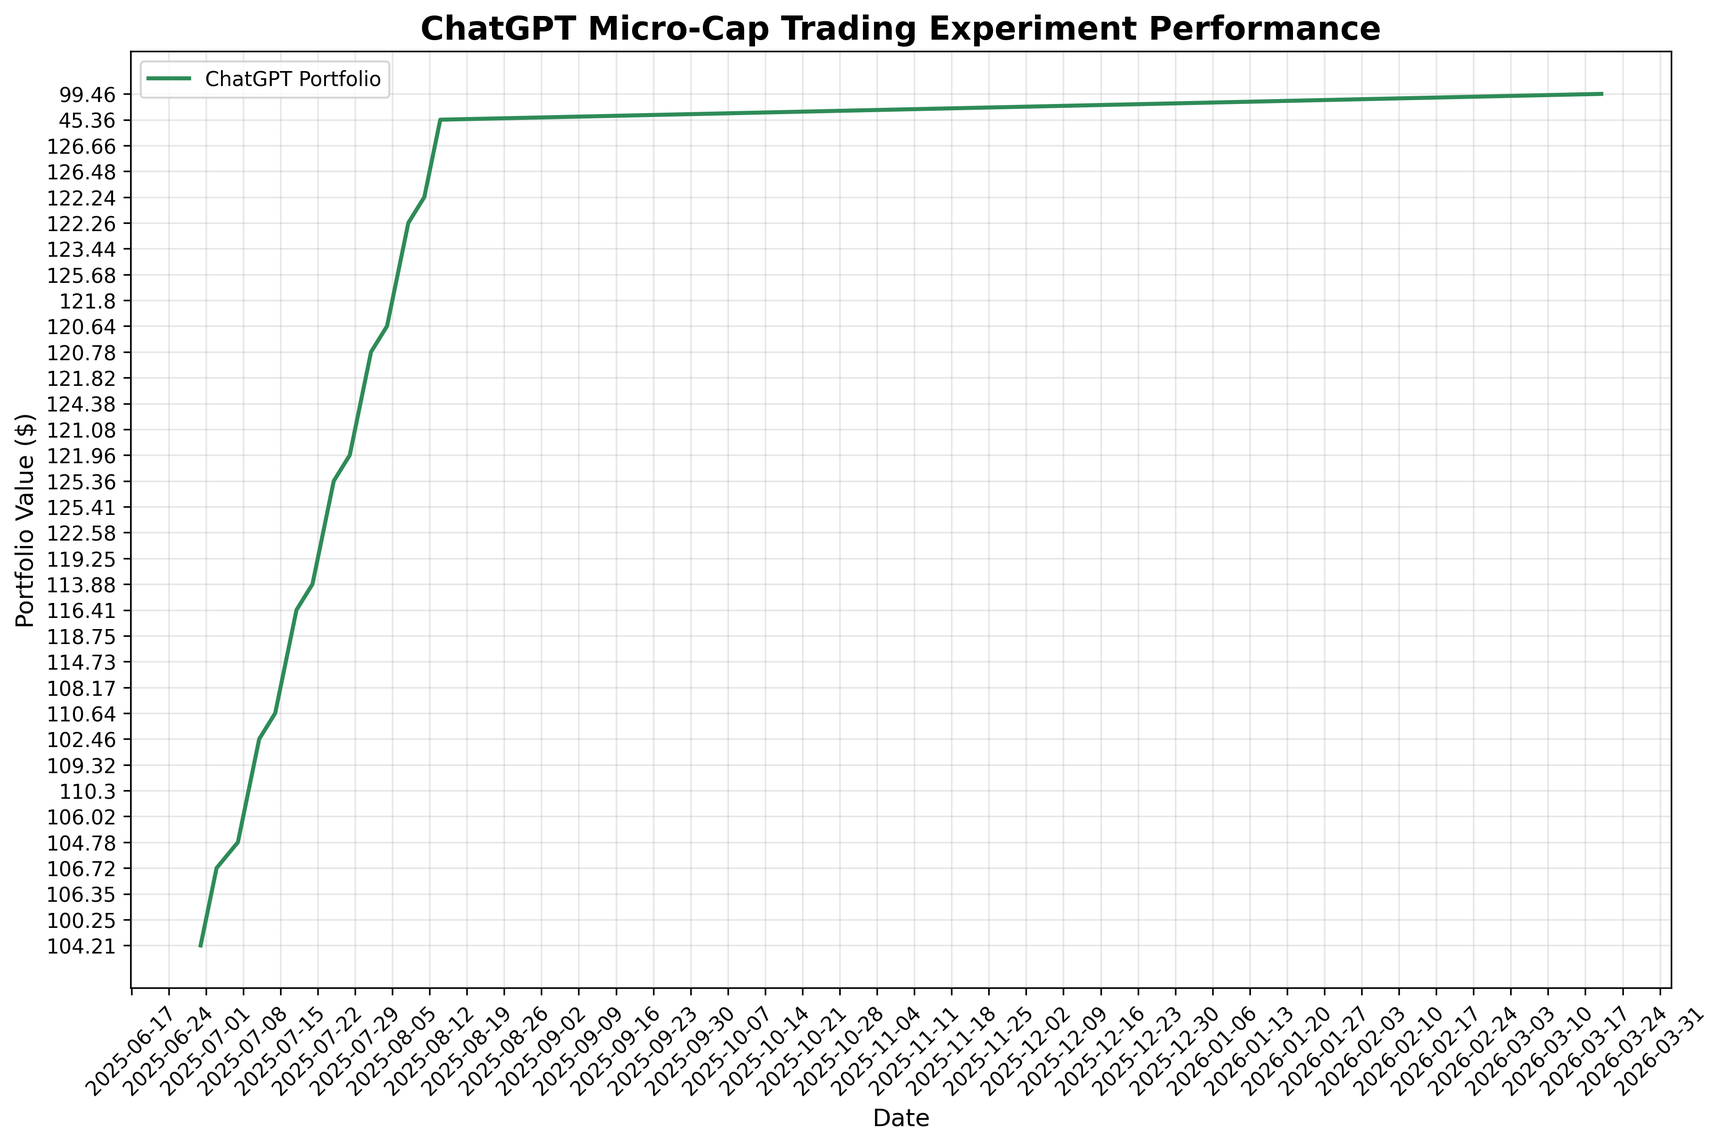
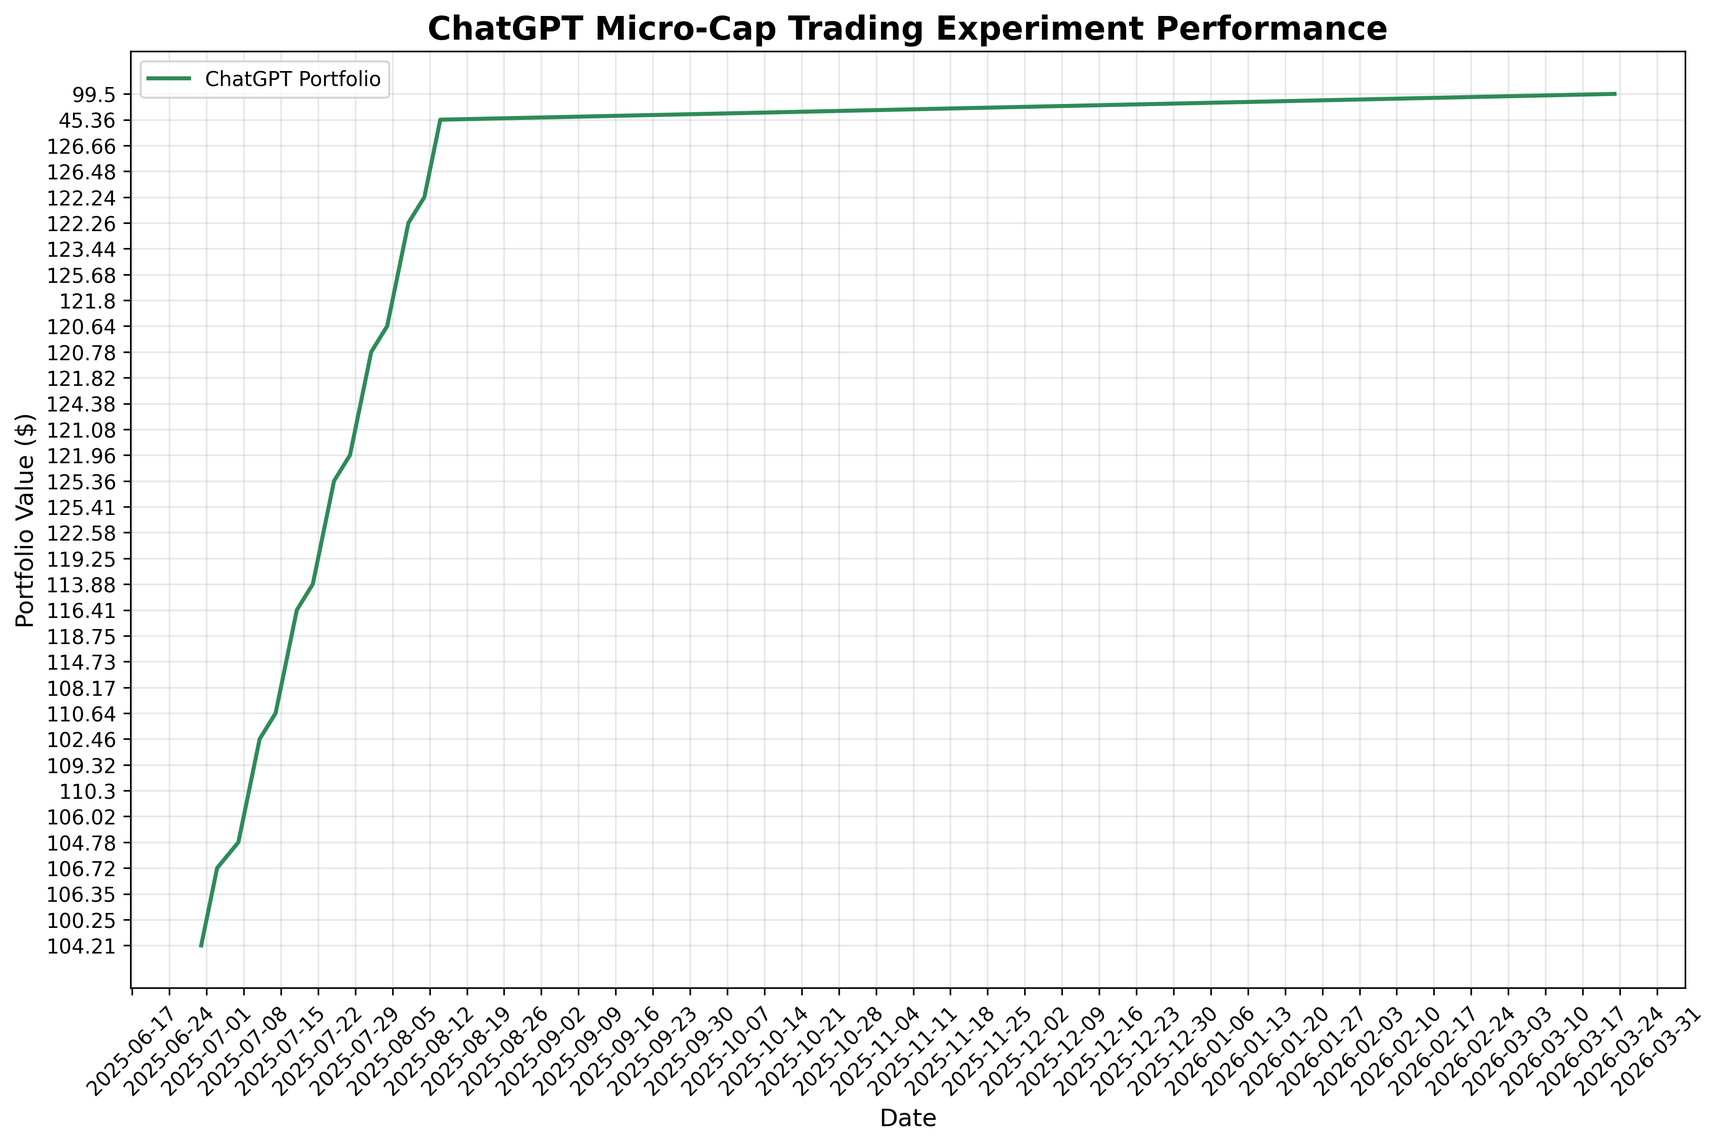
deploy: e15cad030d70fb3fbb51f9df6e22fa70c2f175c0

diff --git a/index.html b/index.html
@@ -105,7 +105,7 @@
                 <div class="stat-label">Total Trades</div>
             </div>
             <div class="stat-card">
-                <div class="stat-value" id="last-updated">2026-03-20</div>
+                <div class="stat-value" id="last-updated">2026-03-23</div>
                 <div class="stat-label">Last Updated</div>
             </div>
         </div>
@@ -160,8 +160,8 @@
     
     <script>
         // Portfolio data
-        const portfolioData = JSON.parse("[{&quot;Date&quot;: &quot;2025-08-11&quot;, &quot;Ticker&quot;: &quot;ABEO&quot;, &quot;Shares&quot;: 4.0, &quot;Buy Price&quot;: 5.77, &quot;Cost Basis&quot;: 23.08, &quot;Stop Loss&quot;: 4.9, &quot;Current Price&quot;: 6.28, &quot;Total Value&quot;: 25.12, &quot;PnL&quot;: 2.04, &quot;Action&quot;: &quot;HOLD&quot;, &quot;Cash Balance&quot;: NaN, &quot;Total Equity&quot;: NaN}, {&quot;Date&quot;: &quot;2025-08-11&quot;, &quot;Ticker&quot;: &quot;ACTU&quot;, &quot;Shares&quot;: 6.0, &quot;Buy Price&quot;: 5.75, &quot;Cost Basis&quot;: 34.5, &quot;Stop Loss&quot;: 4.89, &quot;Current Price&quot;: 8.01, &quot;Total Value&quot;: 48.06, &quot;PnL&quot;: 13.56, &quot;Action&quot;: &quot;HOLD&quot;, &quot;Cash Balance&quot;: NaN, &quot;Total Equity&quot;: NaN}, {&quot;Date&quot;: &quot;2025-08-11&quot;, &quot;Ticker&quot;: &quot;ESPR&quot;, &quot;Shares&quot;: 2.0, &quot;Buy Price&quot;: 1.91, &quot;Cost Basis&quot;: 3.82, &quot;Stop Loss&quot;: 1.6, &quot;Current Price&quot;: 1.85, &quot;Total Value&quot;: 3.7, &quot;PnL&quot;: -0.12, &quot;Action&quot;: &quot;HOLD&quot;, &quot;Cash Balance&quot;: NaN, &quot;Total Equity&quot;: NaN}, {&quot;Date&quot;: &quot;2025-08-11&quot;, &quot;Ticker&quot;: &quot;TOTAL&quot;, &quot;Shares&quot;: NaN, &quot;Buy Price&quot;: NaN, &quot;Cost Basis&quot;: NaN, &quot;Stop Loss&quot;: NaN, &quot;Current Price&quot;: NaN, &quot;Total Value&quot;: 76.88, &quot;PnL&quot;: 15.48, &quot;Action&quot;: NaN, &quot;Cash Balance&quot;: 45.36, &quot;Total Equity&quot;: &quot;122.24&quot;}, {&quot;Date&quot;: &quot;2025-08-12&quot;, &quot;Ticker&quot;: &quot;ABEO&quot;, &quot;Shares&quot;: 4.0, &quot;Buy Price&quot;: 5.77, &quot;Cost Basis&quot;: 23.08, &quot;Stop Loss&quot;: 4.9, &quot;Current Price&quot;: 6.38, &quot;Total Value&quot;: 25.52, &quot;PnL&quot;: 2.44, &quot;Action&quot;: &quot;HOLD&quot;, &quot;Cash Balance&quot;: NaN, &quot;Total Equity&quot;: NaN}, {&quot;Date&quot;: &quot;2025-08-12&quot;, &quot;Ticker&quot;: &quot;ACTU&quot;, &quot;Shares&quot;: 6.0, &quot;Buy Price&quot;: 5.75, &quot;Cost Basis&quot;: 34.5, &quot;Stop Loss&quot;: 4.89, &quot;Current Price&quot;: 8.67, &quot;Total Value&quot;: 52.02, &quot;PnL&quot;: 17.52, &quot;Action&quot;: &quot;HOLD&quot;, &quot;Cash Balance&quot;: NaN, &quot;Total Equity&quot;: NaN}, {&quot;Date&quot;: &quot;2025-08-12&quot;, &quot;Ticker&quot;: &quot;ESPR&quot;, &quot;Shares&quot;: 2.0, &quot;Buy Price&quot;: 1.91, &quot;Cost Basis&quot;: 3.82, &quot;Stop Loss&quot;: 1.6, &quot;Current Price&quot;: 1.79, &quot;Total Value&quot;: 3.58, &quot;PnL&quot;: -0.24, &quot;Action&quot;: &quot;HOLD&quot;, &quot;Cash Balance&quot;: NaN, &quot;Total Equity&quot;: NaN}, {&quot;Date&quot;: &quot;2025-08-12&quot;, &quot;Ticker&quot;: &quot;TOTAL&quot;, &quot;Shares&quot;: NaN, &quot;Buy Price&quot;: NaN, &quot;Cost Basis&quot;: NaN, &quot;Stop Loss&quot;: NaN, &quot;Current Price&quot;: NaN, &quot;Total Value&quot;: 81.12, &quot;PnL&quot;: 19.72, &quot;Action&quot;: NaN, &quot;Cash Balance&quot;: 45.36, &quot;Total Equity&quot;: &quot;126.48&quot;}, {&quot;Date&quot;: &quot;2025-08-13&quot;, &quot;Ticker&quot;: &quot;ABEO&quot;, &quot;Shares&quot;: 4.0, &quot;Buy Price&quot;: 5.77, &quot;Cost Basis&quot;: 23.08, &quot;Stop Loss&quot;: 4.9, &quot;Current Price&quot;: 6.56, &quot;Total Value&quot;: 26.24, &quot;PnL&quot;: 3.16, &quot;Action&quot;: &quot;HOLD&quot;, &quot;Cash Balance&quot;: NaN, &quot;Total Equity&quot;: NaN}, {&quot;Date&quot;: &quot;2025-08-13&quot;, &quot;Ticker&quot;: &quot;ACTU&quot;, &quot;Shares&quot;: 6.0, &quot;Buy Price&quot;: 5.75, &quot;Cost Basis&quot;: 34.5, &quot;Stop Loss&quot;: 4.89, &quot;Current Price&quot;: 8.53, &quot;Total Value&quot;: 51.18, &quot;PnL&quot;: 16.68, &quot;Action&quot;: &quot;HOLD&quot;, &quot;Cash Balance&quot;: NaN, &quot;Total Equity&quot;: NaN}, {&quot;Date&quot;: &quot;2025-08-13&quot;, &quot;Ticker&quot;: &quot;ESPR&quot;, &quot;Shares&quot;: 2.0, &quot;Buy Price&quot;: 1.91, &quot;Cost Basis&quot;: 3.82, &quot;Stop Loss&quot;: 1.6, &quot;Current Price&quot;: 1.94, &quot;Total Value&quot;: 3.88, &quot;PnL&quot;: 0.06, &quot;Action&quot;: &quot;HOLD&quot;, &quot;Cash Balance&quot;: NaN, &quot;Total Equity&quot;: NaN}, {&quot;Date&quot;: &quot;2025-08-13&quot;, &quot;Ticker&quot;: &quot;TOTAL&quot;, &quot;Shares&quot;: NaN, &quot;Buy Price&quot;: NaN, &quot;Cost Basis&quot;: NaN, &quot;Stop Loss&quot;: NaN, &quot;Current Price&quot;: NaN, &quot;Total Value&quot;: 81.3, &quot;PnL&quot;: 19.9, &quot;Action&quot;: NaN, &quot;Cash Balance&quot;: 45.36, &quot;Total Equity&quot;: &quot;126.66&quot;}, {&quot;Date&quot;: &quot;2025-08-14&quot;, &quot;Ticker&quot;: &quot;ABEO&quot;, &quot;Shares&quot;: 4.0, &quot;Buy Price&quot;: 5.77, &quot;Cost Basis&quot;: 23.08, &quot;Stop Loss&quot;: 4.9, &quot;Current Price&quot;: NaN, &quot;Total Value&quot;: NaN, &quot;PnL&quot;: NaN, &quot;Action&quot;: &quot;NO DATA&quot;, &quot;Cash Balance&quot;: NaN, &quot;Total Equity&quot;: NaN}, {&quot;Date&quot;: &quot;2025-08-14&quot;, &quot;Ticker&quot;: &quot;ACTU&quot;, &quot;Shares&quot;: 6.0, &quot;Buy Price&quot;: 5.75, &quot;Cost Basis&quot;: 34.5, &quot;Stop Loss&quot;: 4.89, &quot;Current Price&quot;: NaN, &quot;Total Value&quot;: NaN, &quot;PnL&quot;: NaN, &quot;Action&quot;: &quot;NO DATA&quot;, &quot;Cash Balance&quot;: NaN, &quot;Total Equity&quot;: NaN}, {&quot;Date&quot;: &quot;2025-08-14&quot;, &quot;Ticker&quot;: &quot;ESPR&quot;, &quot;Shares&quot;: 2.0, &quot;Buy Price&quot;: 1.91, &quot;Cost Basis&quot;: 3.82, &quot;Stop Loss&quot;: 1.6, &quot;Current Price&quot;: NaN, &quot;Total Value&quot;: NaN, &quot;PnL&quot;: NaN, &quot;Action&quot;: &quot;NO DATA&quot;, &quot;Cash Balance&quot;: NaN, &quot;Total Equity&quot;: NaN}, {&quot;Date&quot;: &quot;2025-08-14&quot;, &quot;Ticker&quot;: &quot;TOTAL&quot;, &quot;Shares&quot;: NaN, &quot;Buy Price&quot;: NaN, &quot;Cost Basis&quot;: NaN, &quot;Stop Loss&quot;: NaN, &quot;Current Price&quot;: NaN, &quot;Total Value&quot;: 0.0, &quot;PnL&quot;: 0.0, &quot;Action&quot;: NaN, &quot;Cash Balance&quot;: 45.36, &quot;Total Equity&quot;: &quot;45.36&quot;}, {&quot;Date&quot;: &quot;2026-03-20&quot;, &quot;Ticker&quot;: &quot;ABEO&quot;, &quot;Shares&quot;: 4.0, &quot;Buy Price&quot;: 5.77, &quot;Cost Basis&quot;: 23.08, &quot;Stop Loss&quot;: 4.9, &quot;Current Price&quot;: 4.9, &quot;Total Value&quot;: 19.6, &quot;PnL&quot;: -3.48, &quot;Action&quot;: &quot;SELL - Stop Loss Triggered&quot;, &quot;Cash Balance&quot;: NaN, &quot;Total Equity&quot;: NaN}, {&quot;Date&quot;: &quot;2026-03-20&quot;, &quot;Ticker&quot;: &quot;ACTU&quot;, &quot;Shares&quot;: 6.0, &quot;Buy Price&quot;: 5.75, &quot;Cost Basis&quot;: 34.5, &quot;Stop Loss&quot;: 4.89, &quot;Current Price&quot;: 4.89, &quot;Total Value&quot;: 29.34, &quot;PnL&quot;: -5.16, &quot;Action&quot;: &quot;SELL - Stop Loss Triggered&quot;, &quot;Cash Balance&quot;: NaN, &quot;Total Equity&quot;: NaN}, {&quot;Date&quot;: &quot;2026-03-20&quot;, &quot;Ticker&quot;: &quot;ESPR&quot;, &quot;Shares&quot;: 2.0, &quot;Buy Price&quot;: 1.91, &quot;Cost Basis&quot;: 3.82, &quot;Stop Loss&quot;: 1.6, &quot;Current Price&quot;: 2.58, &quot;Total Value&quot;: 5.16, &quot;PnL&quot;: 1.34, &quot;Action&quot;: &quot;HOLD&quot;, &quot;Cash Balance&quot;: NaN, &quot;Total Equity&quot;: NaN}, {&quot;Date&quot;: &quot;2026-03-20&quot;, &quot;Ticker&quot;: &quot;TOTAL&quot;, &quot;Shares&quot;: NaN, &quot;Buy Price&quot;: NaN, &quot;Cost Basis&quot;: NaN, &quot;Stop Loss&quot;: NaN, &quot;Current Price&quot;: NaN, &quot;Total Value&quot;: 5.16, &quot;PnL&quot;: 1.34, &quot;Action&quot;: NaN, &quot;Cash Balance&quot;: 94.3, &quot;Total Equity&quot;: &quot;99.46&quot;}]");
-        const tradeData = JSON.parse("[{&quot;Date&quot;: &quot;2025-07-21&quot;, &quot;Ticker&quot;: &quot;CADL&quot;, &quot;Shares Bought&quot;: NaN, &quot;Buy Price&quot;: NaN, &quot;Cost Basis&quot;: 25.2, &quot;PnL&quot;: 8.5, &quot;Reason&quot;: &quot;MANUAL SELL - GAIN CAPITAL FOR ACTU&quot;, &quot;Shares Sold&quot;: 5.0, &quot;Sell Price&quot;: 6.59}, {&quot;Date&quot;: &quot;2025-07-21&quot;, &quot;Ticker&quot;: &quot;ACTU&quot;, &quot;Shares Bought&quot;: 6.0, &quot;Buy Price&quot;: 5.75, &quot;Cost Basis&quot;: 34.5, &quot;PnL&quot;: 0.0, &quot;Reason&quot;: &quot;MANUAL BUY - New position&quot;, &quot;Shares Sold&quot;: NaN, &quot;Sell Price&quot;: NaN}, {&quot;Date&quot;: &quot;2025-07-28&quot;, &quot;Ticker&quot;: &quot;IINN&quot;, &quot;Shares Bought&quot;: NaN, &quot;Buy Price&quot;: NaN, &quot;Cost Basis&quot;: 9.0, &quot;PnL&quot;: -0.5400000000000009, &quot;Reason&quot;: &quot;MANUAL SELL - POSITION REDUCTION&quot;, &quot;Shares Sold&quot;: 6.0, &quot;Sell Price&quot;: 1.41}, {&quot;Date&quot;: &quot;2025-07-29&quot;, &quot;Ticker&quot;: &quot;AZTR&quot;, &quot;Shares Bought&quot;: NaN, &quot;Buy Price&quot;: NaN, &quot;Cost Basis&quot;: 13.75, &quot;PnL&quot;: -2.75, &quot;Reason&quot;: &quot;MANUAL SELL - DILUTION RISK&quot;, &quot;Shares Sold&quot;: 55.0, &quot;Sell Price&quot;: 0.2}, {&quot;Date&quot;: &quot;2025-08-01&quot;, &quot;Ticker&quot;: &quot;IINN&quot;, &quot;Shares Bought&quot;: 2.0, &quot;Buy Price&quot;: 1.74, &quot;Cost Basis&quot;: 3.48, &quot;PnL&quot;: 0.0, &quot;Reason&quot;: &quot;MANUAL BUY - New position&quot;, &quot;Shares Sold&quot;: NaN, &quot;Sell Price&quot;: NaN}, {&quot;Date&quot;: &quot;2025-08-01&quot;, &quot;Ticker&quot;: &quot;ABEO&quot;, &quot;Shares Bought&quot;: NaN, &quot;Buy Price&quot;: NaN, &quot;Cost Basis&quot;: 11.54, &quot;PnL&quot;: 1.200000000000001, &quot;Reason&quot;: &quot;MANUAL SELL - TRIM AFTER SUPPORT LOSS&quot;, &quot;Shares Sold&quot;: 2.0, &quot;Sell Price&quot;: 6.37}, {&quot;Date&quot;: &quot;2025-08-07&quot;, &quot;Ticker&quot;: &quot;ESPR&quot;, &quot;Shares Bought&quot;: 2.0, &quot;Buy Price&quot;: 1.91, &quot;Cost Basis&quot;: 3.82, &quot;PnL&quot;: 0.0, &quot;Reason&quot;: &quot;MANUAL BUY - New position&quot;, &quot;Shares Sold&quot;: NaN, &quot;Sell Price&quot;: NaN}, {&quot;Date&quot;: &quot;2025-08-08&quot;, &quot;Ticker&quot;: &quot;IINN&quot;, &quot;Shares Bought&quot;: NaN, &quot;Buy Price&quot;: NaN, &quot;Cost Basis&quot;: 1.5, &quot;PnL&quot;: -6.4, &quot;Reason&quot;: &quot;AUTOMATED SELL - STOPLOSS TRIGGERED&quot;, &quot;Shares Sold&quot;: 16.0, &quot;Sell Price&quot;: 1.1}, {&quot;Date&quot;: &quot;2026-03-20&quot;, &quot;Ticker&quot;: &quot;ABEO&quot;, &quot;Shares Bought&quot;: NaN, &quot;Buy Price&quot;: NaN, &quot;Cost Basis&quot;: 5.77, &quot;PnL&quot;: -3.48, &quot;Reason&quot;: &quot;AUTOMATED SELL - STOPLOSS TRIGGERED&quot;, &quot;Shares Sold&quot;: 4.0, &quot;Sell Price&quot;: 4.9}, {&quot;Date&quot;: &quot;2026-03-20&quot;, &quot;Ticker&quot;: &quot;ACTU&quot;, &quot;Shares Bought&quot;: NaN, &quot;Buy Price&quot;: NaN, &quot;Cost Basis&quot;: 5.75, &quot;PnL&quot;: -5.16, &quot;Reason&quot;: &quot;AUTOMATED SELL - STOPLOSS TRIGGERED&quot;, &quot;Shares Sold&quot;: 6.0, &quot;Sell Price&quot;: 4.89}]");
+        const portfolioData = JSON.parse("[{&quot;Date&quot;: &quot;2025-08-11&quot;, &quot;Ticker&quot;: &quot;ABEO&quot;, &quot;Shares&quot;: 4.0, &quot;Buy Price&quot;: 5.77, &quot;Cost Basis&quot;: 23.08, &quot;Stop Loss&quot;: 4.9, &quot;Current Price&quot;: 6.28, &quot;Total Value&quot;: 25.12, &quot;PnL&quot;: 2.04, &quot;Action&quot;: &quot;HOLD&quot;, &quot;Cash Balance&quot;: NaN, &quot;Total Equity&quot;: NaN}, {&quot;Date&quot;: &quot;2025-08-11&quot;, &quot;Ticker&quot;: &quot;ACTU&quot;, &quot;Shares&quot;: 6.0, &quot;Buy Price&quot;: 5.75, &quot;Cost Basis&quot;: 34.5, &quot;Stop Loss&quot;: 4.89, &quot;Current Price&quot;: 8.01, &quot;Total Value&quot;: 48.06, &quot;PnL&quot;: 13.56, &quot;Action&quot;: &quot;HOLD&quot;, &quot;Cash Balance&quot;: NaN, &quot;Total Equity&quot;: NaN}, {&quot;Date&quot;: &quot;2025-08-11&quot;, &quot;Ticker&quot;: &quot;ESPR&quot;, &quot;Shares&quot;: 2.0, &quot;Buy Price&quot;: 1.91, &quot;Cost Basis&quot;: 3.82, &quot;Stop Loss&quot;: 1.6, &quot;Current Price&quot;: 1.85, &quot;Total Value&quot;: 3.7, &quot;PnL&quot;: -0.12, &quot;Action&quot;: &quot;HOLD&quot;, &quot;Cash Balance&quot;: NaN, &quot;Total Equity&quot;: NaN}, {&quot;Date&quot;: &quot;2025-08-11&quot;, &quot;Ticker&quot;: &quot;TOTAL&quot;, &quot;Shares&quot;: NaN, &quot;Buy Price&quot;: NaN, &quot;Cost Basis&quot;: NaN, &quot;Stop Loss&quot;: NaN, &quot;Current Price&quot;: NaN, &quot;Total Value&quot;: 76.88, &quot;PnL&quot;: 15.48, &quot;Action&quot;: NaN, &quot;Cash Balance&quot;: 45.36, &quot;Total Equity&quot;: &quot;122.24&quot;}, {&quot;Date&quot;: &quot;2025-08-12&quot;, &quot;Ticker&quot;: &quot;ABEO&quot;, &quot;Shares&quot;: 4.0, &quot;Buy Price&quot;: 5.77, &quot;Cost Basis&quot;: 23.08, &quot;Stop Loss&quot;: 4.9, &quot;Current Price&quot;: 6.38, &quot;Total Value&quot;: 25.52, &quot;PnL&quot;: 2.44, &quot;Action&quot;: &quot;HOLD&quot;, &quot;Cash Balance&quot;: NaN, &quot;Total Equity&quot;: NaN}, {&quot;Date&quot;: &quot;2025-08-12&quot;, &quot;Ticker&quot;: &quot;ACTU&quot;, &quot;Shares&quot;: 6.0, &quot;Buy Price&quot;: 5.75, &quot;Cost Basis&quot;: 34.5, &quot;Stop Loss&quot;: 4.89, &quot;Current Price&quot;: 8.67, &quot;Total Value&quot;: 52.02, &quot;PnL&quot;: 17.52, &quot;Action&quot;: &quot;HOLD&quot;, &quot;Cash Balance&quot;: NaN, &quot;Total Equity&quot;: NaN}, {&quot;Date&quot;: &quot;2025-08-12&quot;, &quot;Ticker&quot;: &quot;ESPR&quot;, &quot;Shares&quot;: 2.0, &quot;Buy Price&quot;: 1.91, &quot;Cost Basis&quot;: 3.82, &quot;Stop Loss&quot;: 1.6, &quot;Current Price&quot;: 1.79, &quot;Total Value&quot;: 3.58, &quot;PnL&quot;: -0.24, &quot;Action&quot;: &quot;HOLD&quot;, &quot;Cash Balance&quot;: NaN, &quot;Total Equity&quot;: NaN}, {&quot;Date&quot;: &quot;2025-08-12&quot;, &quot;Ticker&quot;: &quot;TOTAL&quot;, &quot;Shares&quot;: NaN, &quot;Buy Price&quot;: NaN, &quot;Cost Basis&quot;: NaN, &quot;Stop Loss&quot;: NaN, &quot;Current Price&quot;: NaN, &quot;Total Value&quot;: 81.12, &quot;PnL&quot;: 19.72, &quot;Action&quot;: NaN, &quot;Cash Balance&quot;: 45.36, &quot;Total Equity&quot;: &quot;126.48&quot;}, {&quot;Date&quot;: &quot;2025-08-13&quot;, &quot;Ticker&quot;: &quot;ABEO&quot;, &quot;Shares&quot;: 4.0, &quot;Buy Price&quot;: 5.77, &quot;Cost Basis&quot;: 23.08, &quot;Stop Loss&quot;: 4.9, &quot;Current Price&quot;: 6.56, &quot;Total Value&quot;: 26.24, &quot;PnL&quot;: 3.16, &quot;Action&quot;: &quot;HOLD&quot;, &quot;Cash Balance&quot;: NaN, &quot;Total Equity&quot;: NaN}, {&quot;Date&quot;: &quot;2025-08-13&quot;, &quot;Ticker&quot;: &quot;ACTU&quot;, &quot;Shares&quot;: 6.0, &quot;Buy Price&quot;: 5.75, &quot;Cost Basis&quot;: 34.5, &quot;Stop Loss&quot;: 4.89, &quot;Current Price&quot;: 8.53, &quot;Total Value&quot;: 51.18, &quot;PnL&quot;: 16.68, &quot;Action&quot;: &quot;HOLD&quot;, &quot;Cash Balance&quot;: NaN, &quot;Total Equity&quot;: NaN}, {&quot;Date&quot;: &quot;2025-08-13&quot;, &quot;Ticker&quot;: &quot;ESPR&quot;, &quot;Shares&quot;: 2.0, &quot;Buy Price&quot;: 1.91, &quot;Cost Basis&quot;: 3.82, &quot;Stop Loss&quot;: 1.6, &quot;Current Price&quot;: 1.94, &quot;Total Value&quot;: 3.88, &quot;PnL&quot;: 0.06, &quot;Action&quot;: &quot;HOLD&quot;, &quot;Cash Balance&quot;: NaN, &quot;Total Equity&quot;: NaN}, {&quot;Date&quot;: &quot;2025-08-13&quot;, &quot;Ticker&quot;: &quot;TOTAL&quot;, &quot;Shares&quot;: NaN, &quot;Buy Price&quot;: NaN, &quot;Cost Basis&quot;: NaN, &quot;Stop Loss&quot;: NaN, &quot;Current Price&quot;: NaN, &quot;Total Value&quot;: 81.3, &quot;PnL&quot;: 19.9, &quot;Action&quot;: NaN, &quot;Cash Balance&quot;: 45.36, &quot;Total Equity&quot;: &quot;126.66&quot;}, {&quot;Date&quot;: &quot;2025-08-14&quot;, &quot;Ticker&quot;: &quot;ABEO&quot;, &quot;Shares&quot;: 4.0, &quot;Buy Price&quot;: 5.77, &quot;Cost Basis&quot;: 23.08, &quot;Stop Loss&quot;: 4.9, &quot;Current Price&quot;: NaN, &quot;Total Value&quot;: NaN, &quot;PnL&quot;: NaN, &quot;Action&quot;: &quot;NO DATA&quot;, &quot;Cash Balance&quot;: NaN, &quot;Total Equity&quot;: NaN}, {&quot;Date&quot;: &quot;2025-08-14&quot;, &quot;Ticker&quot;: &quot;ACTU&quot;, &quot;Shares&quot;: 6.0, &quot;Buy Price&quot;: 5.75, &quot;Cost Basis&quot;: 34.5, &quot;Stop Loss&quot;: 4.89, &quot;Current Price&quot;: NaN, &quot;Total Value&quot;: NaN, &quot;PnL&quot;: NaN, &quot;Action&quot;: &quot;NO DATA&quot;, &quot;Cash Balance&quot;: NaN, &quot;Total Equity&quot;: NaN}, {&quot;Date&quot;: &quot;2025-08-14&quot;, &quot;Ticker&quot;: &quot;ESPR&quot;, &quot;Shares&quot;: 2.0, &quot;Buy Price&quot;: 1.91, &quot;Cost Basis&quot;: 3.82, &quot;Stop Loss&quot;: 1.6, &quot;Current Price&quot;: NaN, &quot;Total Value&quot;: NaN, &quot;PnL&quot;: NaN, &quot;Action&quot;: &quot;NO DATA&quot;, &quot;Cash Balance&quot;: NaN, &quot;Total Equity&quot;: NaN}, {&quot;Date&quot;: &quot;2025-08-14&quot;, &quot;Ticker&quot;: &quot;TOTAL&quot;, &quot;Shares&quot;: NaN, &quot;Buy Price&quot;: NaN, &quot;Cost Basis&quot;: NaN, &quot;Stop Loss&quot;: NaN, &quot;Current Price&quot;: NaN, &quot;Total Value&quot;: 0.0, &quot;PnL&quot;: 0.0, &quot;Action&quot;: NaN, &quot;Cash Balance&quot;: 45.36, &quot;Total Equity&quot;: &quot;45.36&quot;}, {&quot;Date&quot;: &quot;2026-03-23&quot;, &quot;Ticker&quot;: &quot;ABEO&quot;, &quot;Shares&quot;: 4.0, &quot;Buy Price&quot;: 5.77, &quot;Cost Basis&quot;: 23.08, &quot;Stop Loss&quot;: 4.9, &quot;Current Price&quot;: 4.9, &quot;Total Value&quot;: 19.6, &quot;PnL&quot;: -3.48, &quot;Action&quot;: &quot;SELL - Stop Loss Triggered&quot;, &quot;Cash Balance&quot;: NaN, &quot;Total Equity&quot;: NaN}, {&quot;Date&quot;: &quot;2026-03-23&quot;, &quot;Ticker&quot;: &quot;ACTU&quot;, &quot;Shares&quot;: 6.0, &quot;Buy Price&quot;: 5.75, &quot;Cost Basis&quot;: 34.5, &quot;Stop Loss&quot;: 4.89, &quot;Current Price&quot;: 4.89, &quot;Total Value&quot;: 29.34, &quot;PnL&quot;: -5.16, &quot;Action&quot;: &quot;SELL - Stop Loss Triggered&quot;, &quot;Cash Balance&quot;: NaN, &quot;Total Equity&quot;: NaN}, {&quot;Date&quot;: &quot;2026-03-23&quot;, &quot;Ticker&quot;: &quot;ESPR&quot;, &quot;Shares&quot;: 2.0, &quot;Buy Price&quot;: 1.91, &quot;Cost Basis&quot;: 3.82, &quot;Stop Loss&quot;: 1.6, &quot;Current Price&quot;: 2.6, &quot;Total Value&quot;: 5.2, &quot;PnL&quot;: 1.38, &quot;Action&quot;: &quot;HOLD&quot;, &quot;Cash Balance&quot;: NaN, &quot;Total Equity&quot;: NaN}, {&quot;Date&quot;: &quot;2026-03-23&quot;, &quot;Ticker&quot;: &quot;TOTAL&quot;, &quot;Shares&quot;: NaN, &quot;Buy Price&quot;: NaN, &quot;Cost Basis&quot;: NaN, &quot;Stop Loss&quot;: NaN, &quot;Current Price&quot;: NaN, &quot;Total Value&quot;: 5.2, &quot;PnL&quot;: 1.38, &quot;Action&quot;: NaN, &quot;Cash Balance&quot;: 94.3, &quot;Total Equity&quot;: &quot;99.5&quot;}]");
+        const tradeData = JSON.parse("[{&quot;Date&quot;: &quot;2025-07-21&quot;, &quot;Ticker&quot;: &quot;CADL&quot;, &quot;Shares Bought&quot;: NaN, &quot;Buy Price&quot;: NaN, &quot;Cost Basis&quot;: 25.2, &quot;PnL&quot;: 8.5, &quot;Reason&quot;: &quot;MANUAL SELL - GAIN CAPITAL FOR ACTU&quot;, &quot;Shares Sold&quot;: 5.0, &quot;Sell Price&quot;: 6.59}, {&quot;Date&quot;: &quot;2025-07-21&quot;, &quot;Ticker&quot;: &quot;ACTU&quot;, &quot;Shares Bought&quot;: 6.0, &quot;Buy Price&quot;: 5.75, &quot;Cost Basis&quot;: 34.5, &quot;PnL&quot;: 0.0, &quot;Reason&quot;: &quot;MANUAL BUY - New position&quot;, &quot;Shares Sold&quot;: NaN, &quot;Sell Price&quot;: NaN}, {&quot;Date&quot;: &quot;2025-07-28&quot;, &quot;Ticker&quot;: &quot;IINN&quot;, &quot;Shares Bought&quot;: NaN, &quot;Buy Price&quot;: NaN, &quot;Cost Basis&quot;: 9.0, &quot;PnL&quot;: -0.5400000000000009, &quot;Reason&quot;: &quot;MANUAL SELL - POSITION REDUCTION&quot;, &quot;Shares Sold&quot;: 6.0, &quot;Sell Price&quot;: 1.41}, {&quot;Date&quot;: &quot;2025-07-29&quot;, &quot;Ticker&quot;: &quot;AZTR&quot;, &quot;Shares Bought&quot;: NaN, &quot;Buy Price&quot;: NaN, &quot;Cost Basis&quot;: 13.75, &quot;PnL&quot;: -2.75, &quot;Reason&quot;: &quot;MANUAL SELL - DILUTION RISK&quot;, &quot;Shares Sold&quot;: 55.0, &quot;Sell Price&quot;: 0.2}, {&quot;Date&quot;: &quot;2025-08-01&quot;, &quot;Ticker&quot;: &quot;IINN&quot;, &quot;Shares Bought&quot;: 2.0, &quot;Buy Price&quot;: 1.74, &quot;Cost Basis&quot;: 3.48, &quot;PnL&quot;: 0.0, &quot;Reason&quot;: &quot;MANUAL BUY - New position&quot;, &quot;Shares Sold&quot;: NaN, &quot;Sell Price&quot;: NaN}, {&quot;Date&quot;: &quot;2025-08-01&quot;, &quot;Ticker&quot;: &quot;ABEO&quot;, &quot;Shares Bought&quot;: NaN, &quot;Buy Price&quot;: NaN, &quot;Cost Basis&quot;: 11.54, &quot;PnL&quot;: 1.200000000000001, &quot;Reason&quot;: &quot;MANUAL SELL - TRIM AFTER SUPPORT LOSS&quot;, &quot;Shares Sold&quot;: 2.0, &quot;Sell Price&quot;: 6.37}, {&quot;Date&quot;: &quot;2025-08-07&quot;, &quot;Ticker&quot;: &quot;ESPR&quot;, &quot;Shares Bought&quot;: 2.0, &quot;Buy Price&quot;: 1.91, &quot;Cost Basis&quot;: 3.82, &quot;PnL&quot;: 0.0, &quot;Reason&quot;: &quot;MANUAL BUY - New position&quot;, &quot;Shares Sold&quot;: NaN, &quot;Sell Price&quot;: NaN}, {&quot;Date&quot;: &quot;2025-08-08&quot;, &quot;Ticker&quot;: &quot;IINN&quot;, &quot;Shares Bought&quot;: NaN, &quot;Buy Price&quot;: NaN, &quot;Cost Basis&quot;: 1.5, &quot;PnL&quot;: -6.4, &quot;Reason&quot;: &quot;AUTOMATED SELL - STOPLOSS TRIGGERED&quot;, &quot;Shares Sold&quot;: 16.0, &quot;Sell Price&quot;: 1.1}, {&quot;Date&quot;: &quot;2026-03-23&quot;, &quot;Ticker&quot;: &quot;ABEO&quot;, &quot;Shares Bought&quot;: NaN, &quot;Buy Price&quot;: NaN, &quot;Cost Basis&quot;: 5.77, &quot;PnL&quot;: -3.48, &quot;Reason&quot;: &quot;AUTOMATED SELL - STOPLOSS TRIGGERED&quot;, &quot;Shares Sold&quot;: 4.0, &quot;Sell Price&quot;: 4.9}, {&quot;Date&quot;: &quot;2026-03-23&quot;, &quot;Ticker&quot;: &quot;ACTU&quot;, &quot;Shares Bought&quot;: NaN, &quot;Buy Price&quot;: NaN, &quot;Cost Basis&quot;: 5.75, &quot;PnL&quot;: -5.16, &quot;Reason&quot;: &quot;AUTOMATED SELL - STOPLOSS TRIGGERED&quot;, &quot;Shares Sold&quot;: 6.0, &quot;Sell Price&quot;: 4.89}]");
         
         // Update total equity
         if (portfolioData.length > 0) {
